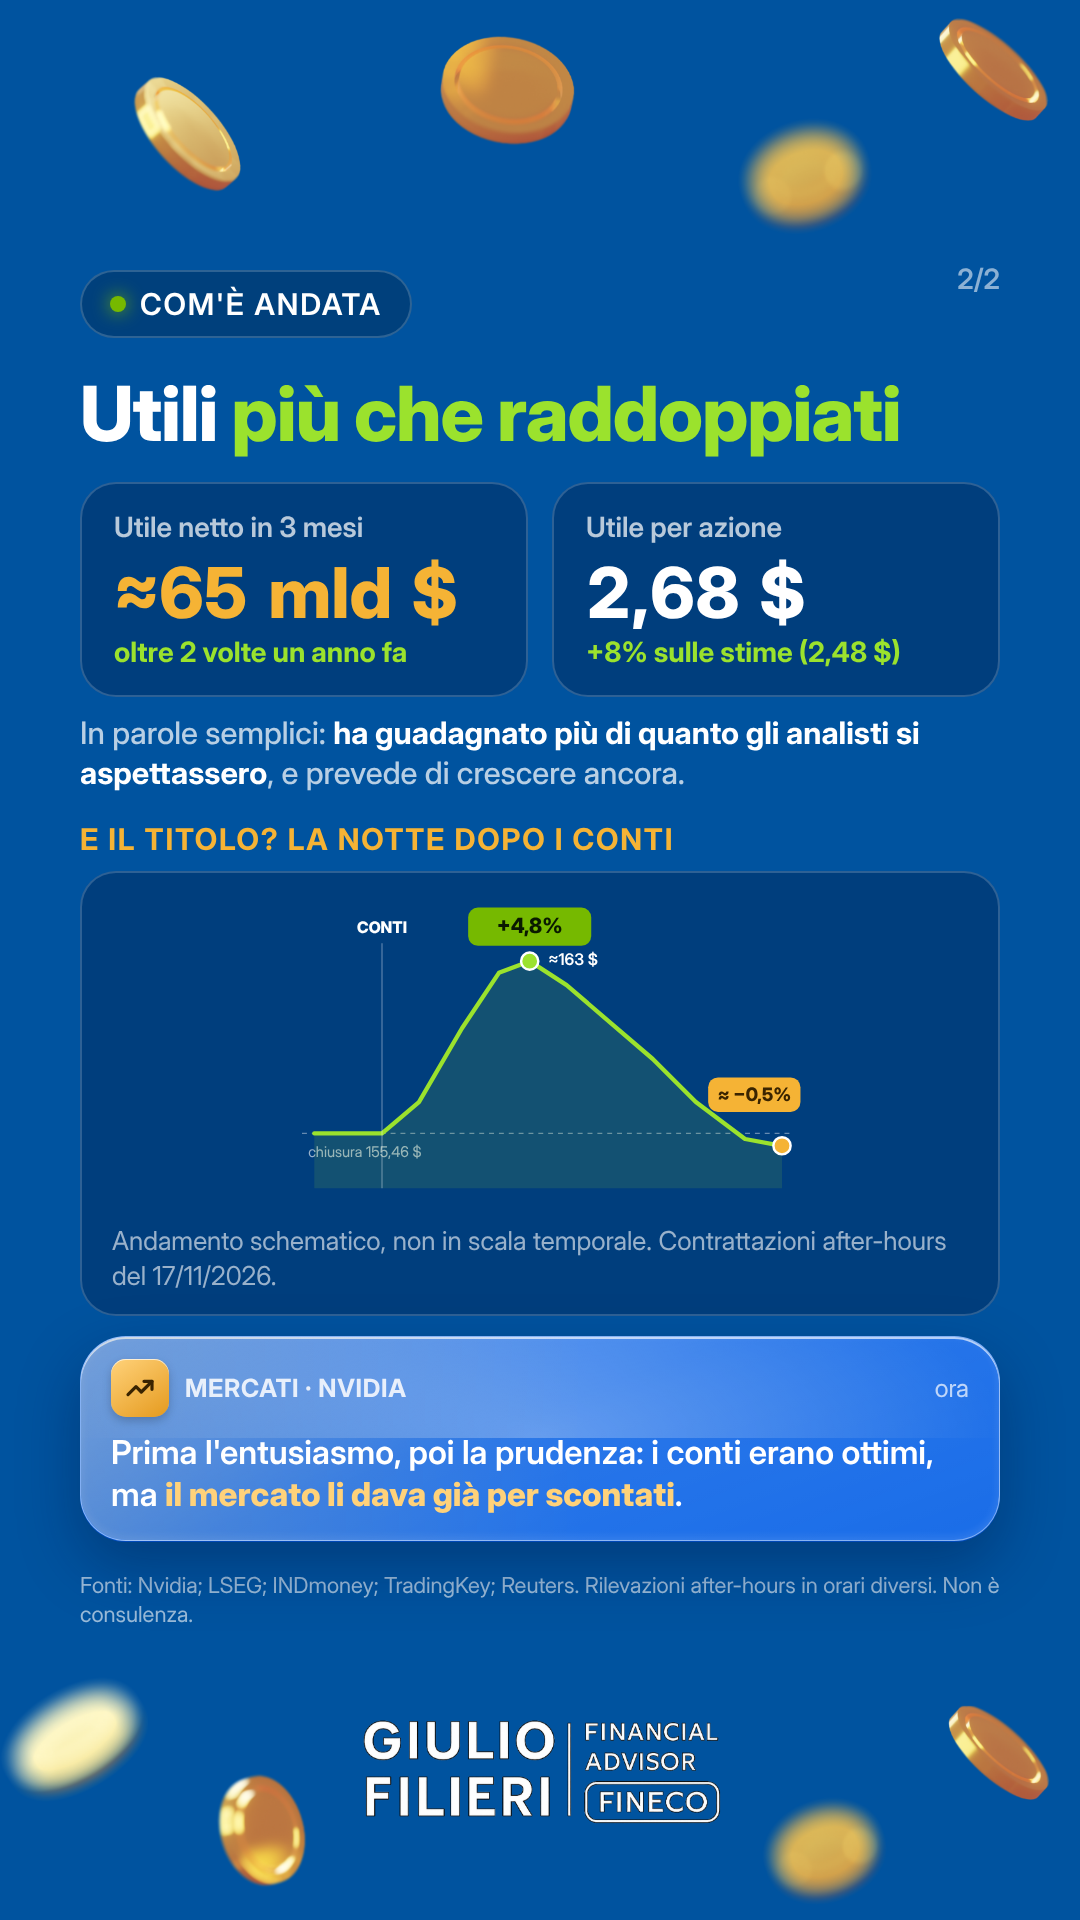
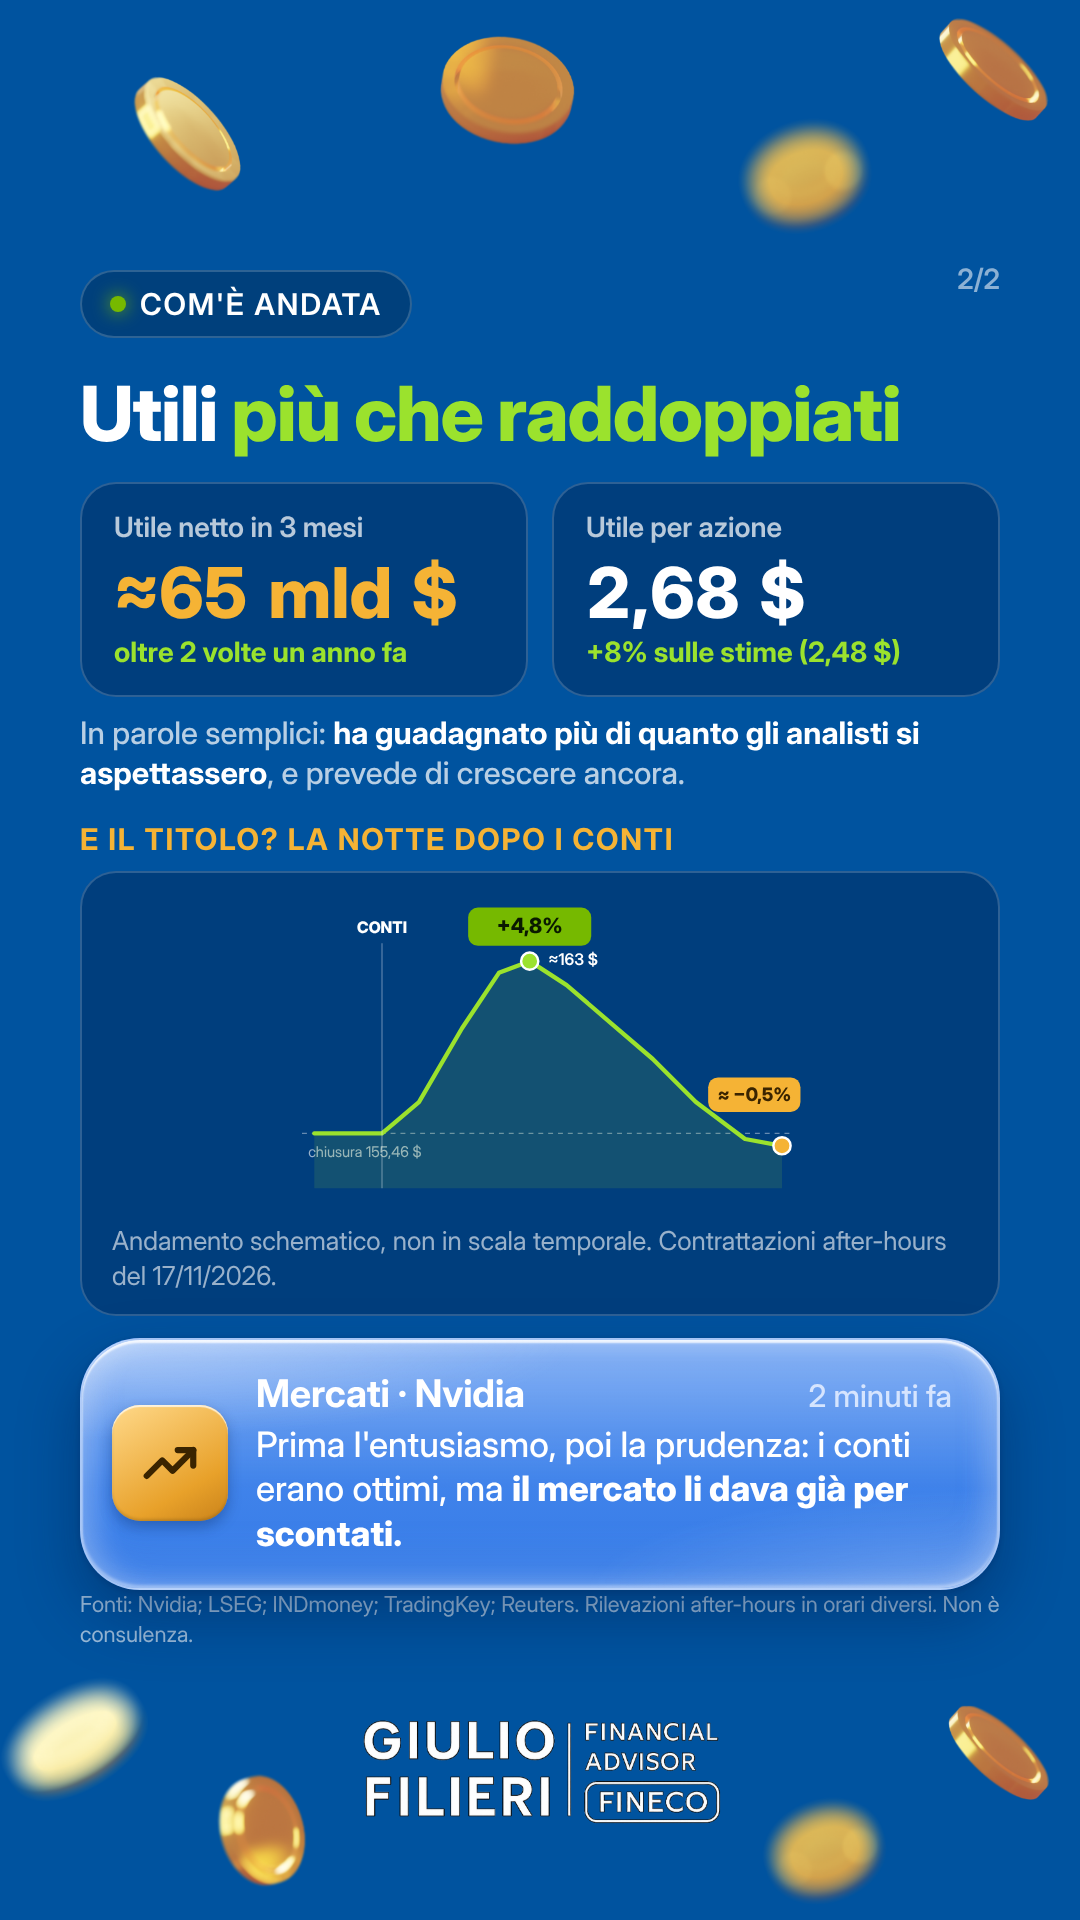
Notifiche in stile iOS liquid glass più chiaro
Claude-Session: https://claude.ai/code/session_01VXFpsKzCZQNUyBxAdjvLow

Changed region(s): [[0.0611, 0.6875, 0.9472, 0.875]]

diff --git a/storie/nvidia-q3-fy27/trimestrale.html b/storie/nvidia-q3-fy27/trimestrale.html
@@ -32,22 +32,32 @@
 </style>
 </head>
 <style>
-  .glass{flex-shrink:0;position:relative;border-radius:46px;padding:26px 30px 28px;overflow:hidden;
-    background:linear-gradient(160deg,rgba(255,255,255,.34) 0%,rgba(255,255,255,.16) 45%,rgba(255,255,255,.10) 100%);
-    border:1.5px solid rgba(255,255,255,.45);
-    box-shadow:0 24px 60px rgba(0,20,60,.35), inset 0 2px 0 rgba(255,255,255,.65), inset 0 -2px 10px rgba(255,255,255,.12);
-    backdrop-filter:blur(28px) saturate(180%);}
-  .glass::before{content:"";position:absolute;left:-10%;top:-60%;width:120%;height:110%;
-    background:radial-gradient(ellipse at 50% 100%,rgba(255,255,255,.28),rgba(255,255,255,0) 60%);pointer-events:none}
-  .glass::after{content:"";position:absolute;inset:0;border-radius:46px;pointer-events:none;
-    background:linear-gradient(90deg,rgba(255,214,122,.18),rgba(255,214,122,0) 55%)}
-  .nhead{display:flex;align-items:center;gap:16px;position:relative;z-index:1}
-  .nicon{width:58px;height:58px;border-radius:15px;flex:none;display:flex;align-items:center;justify-content:center;
-    background:linear-gradient(145deg,#FFD27A,#E59A1E);box-shadow:inset 0 1px 0 rgba(255,255,255,.7),0 4px 10px rgba(0,0,0,.2)}
-  .napp{font-size:25px;font-weight:700;letter-spacing:.03em;color:rgba(255,255,255,.85);text-transform:uppercase;flex:1}
-  .ntime{font-size:25px;color:rgba(255,255,255,.7)}
-  .nbody{position:relative;z-index:1;margin-top:14px;font-size:33px;font-weight:600;line-height:1.3}
-  .nbody b{font-weight:800}
+  .glass{flex-shrink:0;position:relative;display:flex;gap:28px;align-items:center;
+    border-radius:60px;padding:30px 46px 32px 30px;overflow:hidden;
+    background:linear-gradient(180deg,rgba(214,226,244,.44) 0%,rgba(178,198,228,.36) 55%,rgba(160,184,220,.34) 100%);
+    border:2px solid rgba(255,255,255,.55);
+    box-shadow:
+      inset 0 3px 2px rgba(255,255,255,.85),
+      inset 0 -3px 3px rgba(255,255,255,.35),
+      inset 14px 0 26px rgba(255,255,255,.22),
+      inset -14px 0 26px rgba(255,255,255,.18),
+      inset 0 -24px 40px rgba(120,160,230,.25),
+      0 26px 60px rgba(0,25,70,.38), 0 2px 6px rgba(0,25,70,.2);
+    backdrop-filter:blur(30px) saturate(190%);}
+  .glass::before{content:"";position:absolute;inset:0;border-radius:60px;pointer-events:none;
+    background:linear-gradient(180deg,rgba(255,255,255,.26) 0%,rgba(255,255,255,.08) 38%,rgba(255,255,255,0) 60%)}
+  .glass::after{content:"";position:absolute;inset:0;border-radius:60px;pointer-events:none;
+    background:radial-gradient(120% 90% at 0% 0%,rgba(255,255,255,.35),rgba(255,255,255,0) 45%),
+               radial-gradient(90% 80% at 100% 100%,rgba(255,255,255,.22),rgba(255,255,255,0) 50%)}
+  .nicon{position:relative;z-index:1;width:116px;height:116px;border-radius:28px;flex:none;display:flex;align-items:center;justify-content:center;
+    background:linear-gradient(150deg,#FFD98A,#E8A12A 70%,#C9821A);
+    box-shadow:inset 0 2px 1px rgba(255,255,255,.75),inset 0 -2px 3px rgba(0,0,0,.15),0 6px 14px rgba(0,25,70,.3)}
+  .ncol{position:relative;z-index:1;flex:1;min-width:0}
+  .nhead{display:flex;align-items:baseline;gap:16px}
+  .napp{font-size:38px;font-weight:700;color:#fff;flex:1;letter-spacing:-.005em}
+  .ntime{white-space:nowrap;font-size:31px;color:rgba(225,236,255,.9);font-weight:500}
+  .nbody{margin-top:6px;font-size:35px;font-weight:500;line-height:1.28;color:#fff}
+  .nbody b{font-weight:800;color:#fff}
 </style>
 <body>
 
@@ -87,8 +97,11 @@
     </div>
 
     <div class="glass" style="margin-top:26px">
-      <div class="nhead"><div class="nicon"><svg width="34" height="34" viewBox="0 0 24 24" fill="none" stroke="#3A2400" stroke-width="2.6" stroke-linecap="round"><path d="M12 7v6M12 17h.01"/></svg></div><div class="napp">Il tuo portafoglio</div><div class="ntime">ora</div></div>
-      <div class="nbody">Hai un ETF, un fondo azionario o un fondo pensione? <b style="color:#FFD27A">Molto probabilmente hai anche Nvidia.</b></div>
+      <div class="nicon"><svg width="62" height="62" viewBox="0 0 24 24" fill="none" stroke="#3A2400" stroke-width="2.3" stroke-linecap="round" stroke-linejoin="round"><rect x="3" y="7" width="18" height="13" rx="2.5"/><path d="M8 7V5.5A1.5 1.5 0 0 1 9.5 4h5A1.5 1.5 0 0 1 16 5.5V7"/><path d="M3 12.5h18"/></svg></div>
+      <div class="ncol">
+        <div class="nhead"><div class="napp">Il tuo portafoglio</div><div class="ntime">ora</div></div>
+        <div class="nbody">Hai un ETF, un fondo azionario o un fondo pensione? <b>Molto probabilmente hai anche Nvidia.</b></div>
+      </div>
     </div>
 
     <div class="swipe" style="margin-top:26px">Com'è andata? Scorri
@@ -127,9 +140,12 @@
       <div class="small" id="chartnote">Andamento schematico, non in scala temporale. Contrattazioni after-hours del 17/11/2026.</div>
     </div>
 
-    <div class="glass" style="margin-top:20px;padding:22px 30px 24px">
-      <div class="nhead"><div class="nicon"><svg width="32" height="32" viewBox="0 0 24 24" fill="none" stroke="#3A2400" stroke-width="2.4" stroke-linecap="round" stroke-linejoin="round"><path d="M3 17l6-6 4 4 8-8"/><path d="M15 7h6v6"/></svg></div><div class="napp">Mercati · Nvidia</div><div class="ntime">ora</div></div>
-      <div class="nbody">Prima l'entusiasmo, poi la prudenza: i conti erano ottimi, ma <b style="color:#FFD27A">il mercato li dava già per scontati</b>.</div>
+    <div class="glass" style="margin-top:22px">
+      <div class="nicon"><svg width="62" height="62" viewBox="0 0 24 24" fill="none" stroke="#3A2400" stroke-width="2.4" stroke-linecap="round" stroke-linejoin="round"><path d="M3 17l6-6 4 4 8-8"/><path d="M15 7h6v6"/></svg></div>
+      <div class="ncol">
+        <div class="nhead"><div class="napp">Mercati · Nvidia</div><div class="ntime">2 minuti fa</div></div>
+        <div class="nbody">Prima l'entusiasmo, poi la prudenza: i conti erano ottimi, ma <b>il mercato li dava già per scontati.</b></div>
+      </div>
     </div>
 
     <div class="small" style="margin-top:auto;font-size:22px">Fonti: Nvidia; LSEG; INDmoney; TradingKey; Reuters. Rilevazioni after-hours in orari diversi. Non è consulenza.</div>
